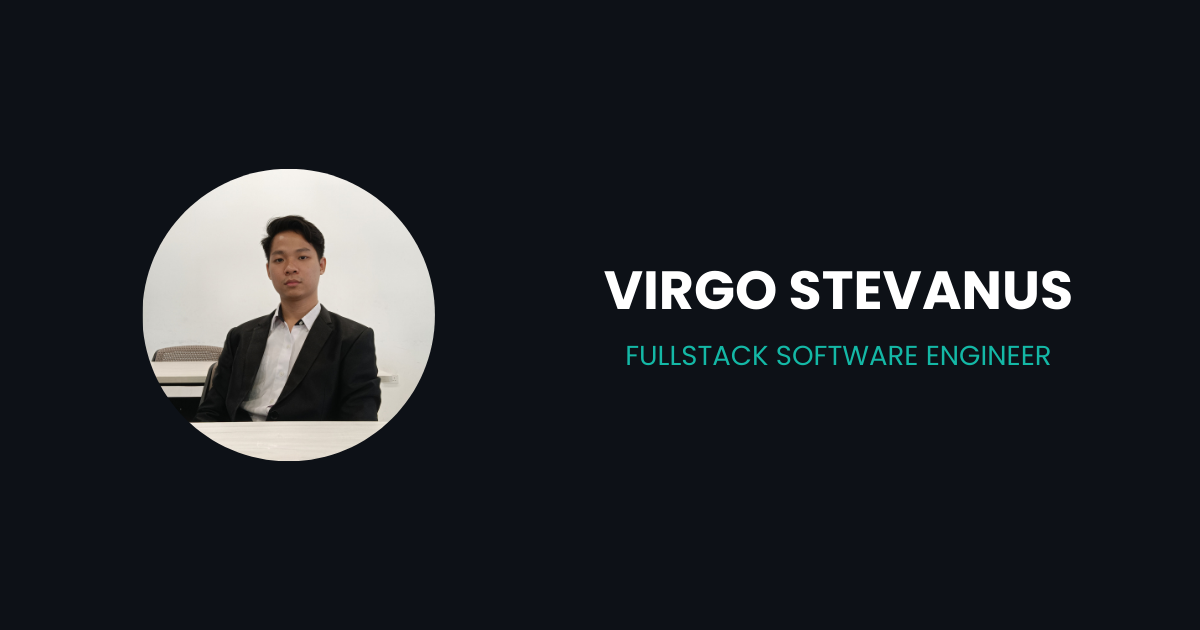
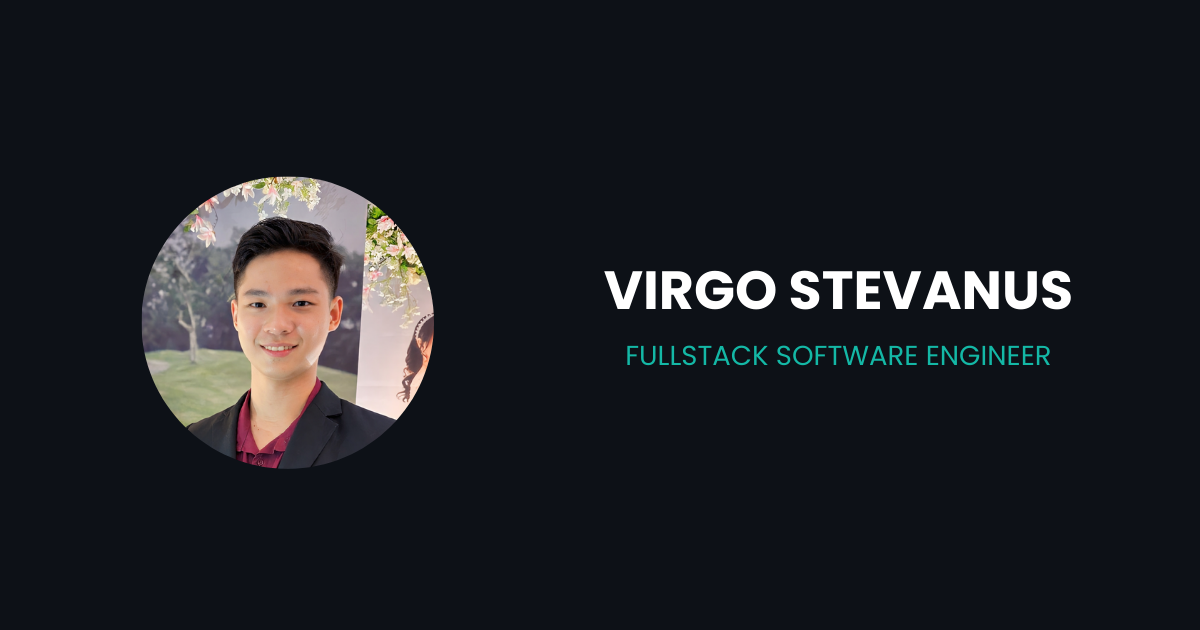
change profile image

Changed region(s): [[0.0925, 0.2714, 0.37, 0.754]]

diff --git a/index.html b/index.html
@@ -263,9 +263,9 @@
 
                 <section id="about" class="mb-12">
                     <div class="flex flex-col sm:flex-row gap-6 sm:gap-8 mb-6">
-                        <a href="assets/img/profile.jpg" data-fancybox data-caption="Virgo Stevanus" class="flex-shrink-0">
+                        <a href="assets/img/profile.png" data-fancybox data-caption="Virgo Stevanus" class="flex-shrink-0">
                             <img
-                                src="assets/img/profile.jpg"
+                                src="assets/img/profile.png"
                                 alt="Virgo Stevanus"
                                 class="w-24 h-24 sm:w-32 sm:h-32 rounded-full object-cover bg-neutral-200 dark:bg-dark-border"
                             >
